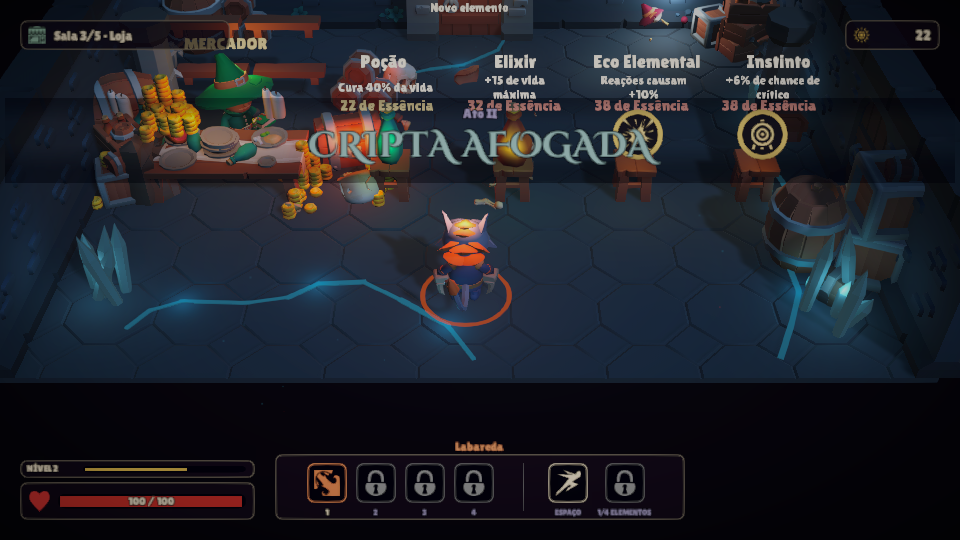
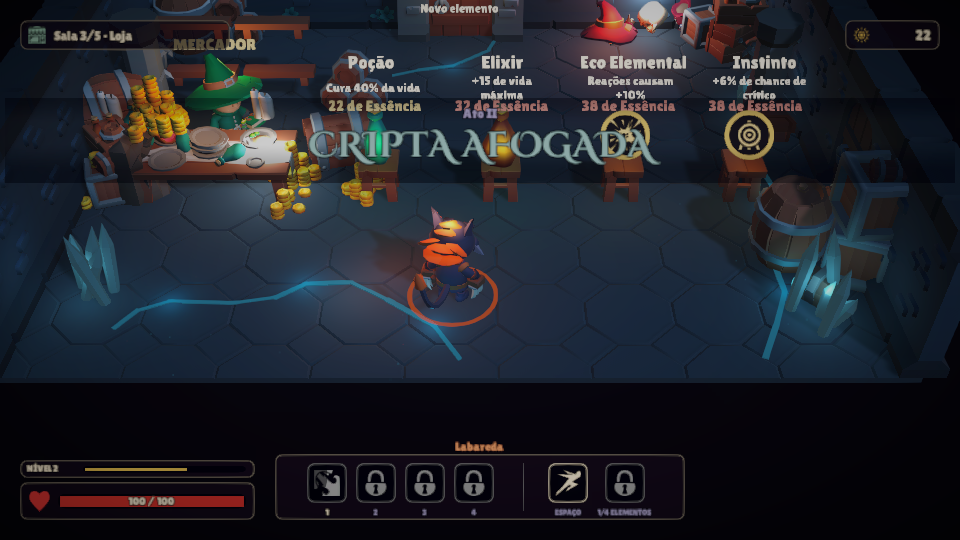
Loja: Pergaminho de talento da quarta sala em diante

diff --git a/Assets/Game/Run/Shop.cs b/Assets/Game/Run/Shop.cs
@@ -3,7 +3,7 @@ using Quintessence.Core;
 
 namespace Quintessence.Run
 {
-    public enum ShopItemKind { Heal, MaxHealth, Boon }
+    public enum ShopItemKind { Heal, MaxHealth, Boon, Talent }
 
     public class ShopItem
     {
@@ -23,8 +23,11 @@ namespace Quintessence.Run
         public static int HealPrice(int depth) => 18 + 2 * depth;
         public static int MaxHealthPrice(int depth) => 28 + 2 * depth;
         public static int BoonPrice(int depth) => 32 + 3 * depth;
+        public static int TalentPrice(int depth) => 44 + 3 * depth;
+        /// O pergaminho de talento so aparece da quarta sala em diante.
+        public const int TalentDepth = 3;
 
-        /// Sempre uma cura e um aumento de vida; mais ate duas bencaos que o heroi ainda nao tem.
+        /// Sempre uma cura e um aumento de vida; da quarta sala em diante um pergaminho de talento; mais ate duas bencaos que o heroi ainda nao tem.
         public static List<ShopItem> Stock(IReadOnlyList<Boon> catalog, ICollection<string> taken, IReadOnlyList<ElementType> awakened,
             System.Random rng, int depth)
         {
@@ -33,6 +36,8 @@ namespace Quintessence.Run
                 new() { Kind = ShopItemKind.Heal, Price = HealPrice(depth), Name = "Poção", Description = "Cura 40% da vida" },
                 new() { Kind = ShopItemKind.MaxHealth, Price = MaxHealthPrice(depth), Name = "Elixir", Description = "+15 de vida máxima" },
             };
+            if (depth >= TalentDepth)
+                items.Add(new ShopItem { Kind = ShopItemKind.Talent, Price = TalentPrice(depth), Name = "Pergaminho", Description = "Um talento agora" });
             foreach (var b in BoonPicker.Offer(catalog, taken, awakened, rng, 2))
                 items.Add(new ShopItem { Kind = ShopItemKind.Boon, Boon = b, Price = BoonPrice(depth), Name = b.name, Description = b.description });
             return items;

diff --git a/Assets/Game/Game/RunDirector.cs b/Assets/Game/Game/RunDirector.cs
@@ -886,7 +886,9 @@ namespace Quintessence.Game
                     var rs = table.GetComponentsInChildren<Renderer>();
                     if (rs.Length > 0) { var b = rs[0].bounds; foreach (var x in rs) b.Encapsulate(x.bounds); top = b.max.y; }
                 }
-                if (item.Kind == ShopItemKind.Boon)
+                if (item.Kind == ShopItemKind.Talent)
+                    Medal(root.transform, new Vector3(0, top + 0.75f, 0), "boon_skill", new Color(0.9f, 0.76f, 0.42f), 1.25f);
+                else if (item.Kind == ShopItemKind.Boon)
                     Medal(root.transform, new Vector3(0, top + 0.75f, 0), BoonEffects.Icon(item.Boon.stat), c, 1.25f);
                 else
                 {
@@ -917,6 +919,7 @@ namespace Quintessence.Game
                             case ShopItemKind.Heal: playerHealth.Heal(playerHealth.Max * ShopPlanner.HealFraction); break;
                             case ShopItemKind.MaxHealth: player.Modifiers.MaxHealthAdd += ShopPlanner.MaxHealthGain; ApplyMaxHealth(); break;
                             case ShopItemKind.Boon: GrantBoon(item.Boon); break;
+                            case ShopItemKind.Talent: Run.Progress.GrantPick(); break;
                         }
                         Feel.DamageNumber.Spawn(player.transform.position + Vector3.up * 3.6f, item.Name.ToUpperInvariant() + "!", c, 1.1f, 1.4f);
                         interactables.Remove(entry);

diff --git a/Assets/Game/Run/Tests/Editor/ShopTests.cs b/Assets/Game/Run/Tests/Editor/ShopTests.cs
@@ -71,5 +71,16 @@ namespace Quintessence.Run.Tests
             int with = Enumerable.Range(1, 60).Count(s => RunMapGenerator.Generate(s).Nodes.Any(n => n.Type == RoomType.Shop));
             Assert.Greater(with, 15, "loja rara demais");
         }
+
+        [Test] public void TalentScroll_OnlyFromTheFourthRoom()
+        {
+            var catalog = Catalog();
+            for (int d = 0; d < 9; d++)
+            {
+                var stock = ShopPlanner.Stock(catalog, new HashSet<string>(), new[] { ElementType.Fire }, new System.Random(d), d);
+                Assert.AreEqual(d >= ShopPlanner.TalentDepth ? 1 : 0, stock.Count(i => i.Kind == ShopItemKind.Talent), "camada " + d);
+            }
+            Assert.Greater(ShopPlanner.TalentPrice(3), ShopPlanner.BoonPrice(3), "talento custa mais que bencao");
+        }
     }
 }
